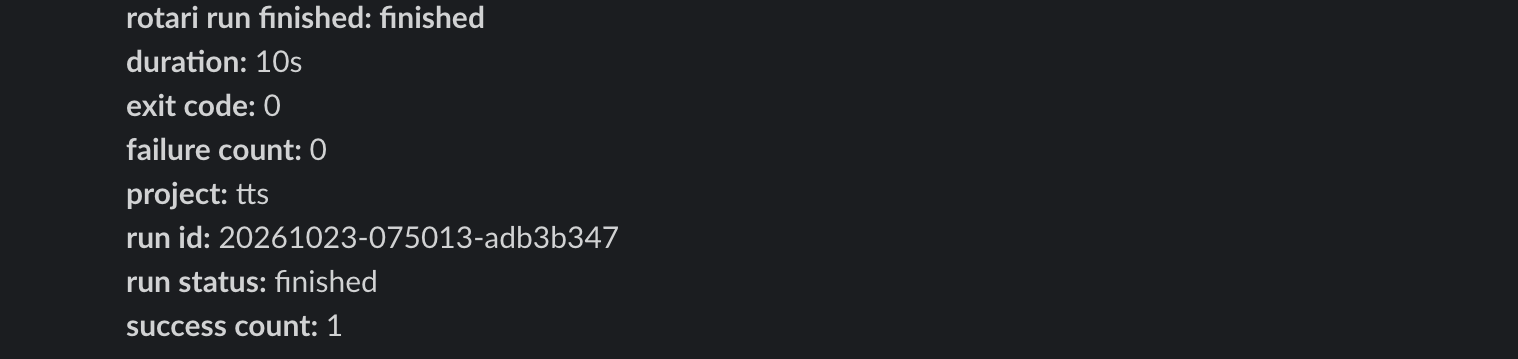
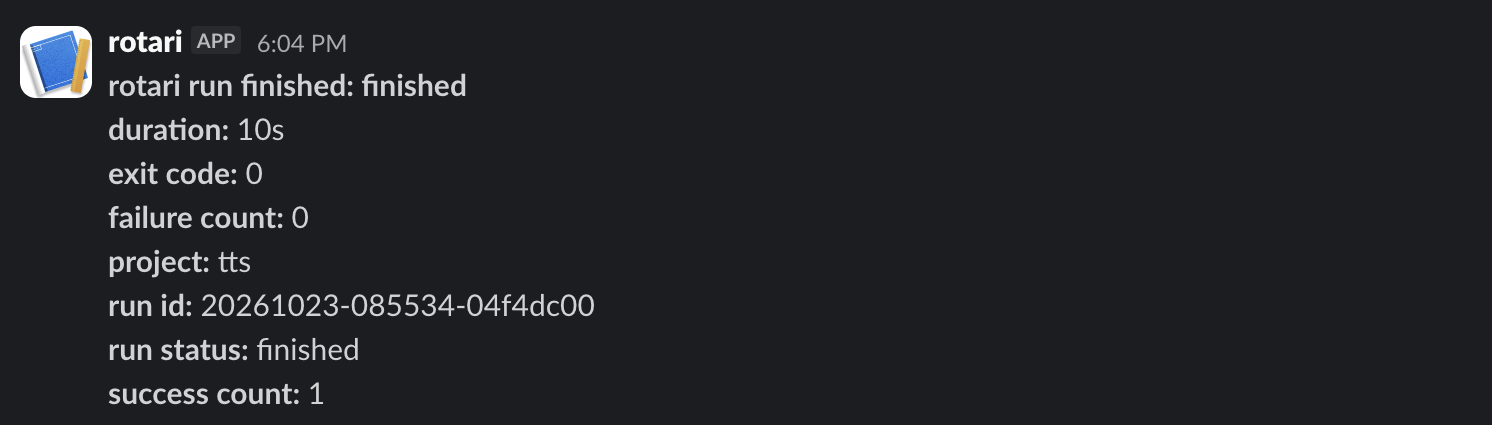
Match the results episode's Slack shots to its current capture
The notification and message now show run 20261023-085534-04f4dc00,
the run on the video's run page.

diff --git a/scripts/promo-video/README.md b/scripts/promo-video/README.md
@@ -99,7 +99,7 @@ pronunciation of "rotari" and the CLI terms by ear before publishing.
 | `fixture/` | Fake jobs: `train.py`, per-project `train.sh`, `sweep.sh`, `prep.sh`, `train-gpu.sh` |
 | `fullpage.py` | Framing aid: full-page screenshots of a captured state, run in a namespace |
 | `make-results.sh TOOLS WORK OUT.mp4 SLACK_DIR` | Build rotari, capture, and render the results episode |
-| `assets/slack/` | Slack screenshots of run `20261023-075013-adb3b347`'s webhook message |
+| `assets/slack/` | Slack screenshots of run `20261023-085534-04f4dc00`'s webhook message |
 | `capture-results.sh`, `capture_results.py` | Capture the results episode (needs Xvfb, dunst, google-chrome) |
 | `newroot.sh`, `dunstrc` | A namespace-owned `/` for `--allow-exec`; the desktop notification style |
 | `render_results.py` | The results episode's scene timeline |
@@ -211,7 +211,7 @@ scripts/promo-video/02_results.sh
 ```
 
 The committed `assets/slack/` screenshots belong to run
-`20261023-075013-adb3b347`; every capture makes a new run ID, so the run page
+`20261023-085534-04f4dc00`; every capture makes a new run ID, so the run page
 and the Slack message in a regenerated video differ there. To make them agree,
 send the new capture's payload as above, screenshot the Slack notification and
 message, crop the message above the input box, and replace `assets/slack/`.
